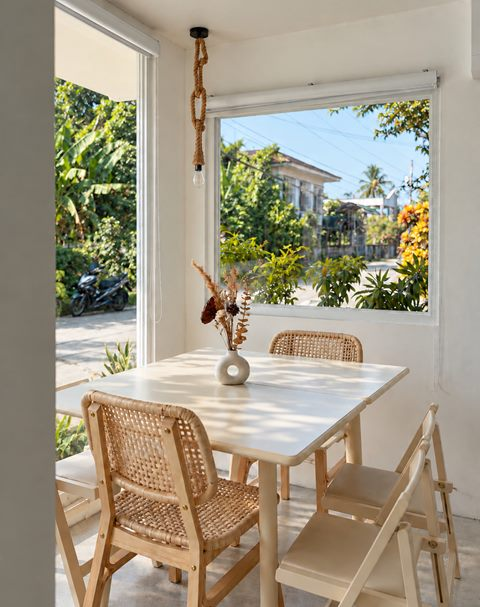
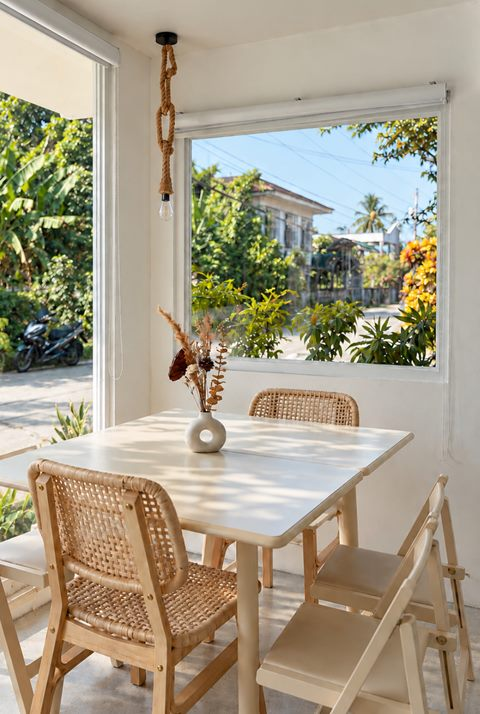
Show names only in Zayn Favorites; crop wall from window-table photo
- Remove prices from the Zayn Favorites cards (full menu keeps them)
- Crop the plain wall off the left of the window-table photo, used in
  the cafe gallery and the social preview; re-render the preview and
  bump its cache version to v=3

diff --git a/index.html b/index.html
@@ -12,7 +12,7 @@
 <!-- ===== Social / link preview =====
      Public URL is currently the GitHub Pages address. If a custom domain is connected,
      replace https://lendezstudio.github.io/Zayn-Coffee-PH/ in canonical, og:url, og:image and twitter:image.
-     ?v=2 on the image makes Facebook/Messenger fetch the new preview instead of a cached one.
+     ?v=3 on the image makes Facebook/Messenger fetch the new preview instead of a cached one.
      Image source: tools/og-template.html (render with tools/make-og-image.ps1). -->
 <link rel="canonical" href="https://lendezstudio.github.io/Zayn-Coffee-PH/">
 <meta property="og:url" content="https://lendezstudio.github.io/Zayn-Coffee-PH/">
@@ -21,8 +21,8 @@
 <meta property="og:locale" content="en_PH">
 <meta property="og:title" content="Zayn Coffee PH | Café in Hilongos, Leyte">
 <meta property="og:description" content="Bringing a city-inspired coffee experience to Hilongos, Leyte, with quality drinks, a calm atmosphere, and a space to work or unwind.">
-<meta property="og:image" content="https://lendezstudio.github.io/Zayn-Coffee-PH/assets/img/og/zayn-coffee-og.jpg?v=2">
-<meta property="og:image:secure_url" content="https://lendezstudio.github.io/Zayn-Coffee-PH/assets/img/og/zayn-coffee-og.jpg?v=2">
+<meta property="og:image" content="https://lendezstudio.github.io/Zayn-Coffee-PH/assets/img/og/zayn-coffee-og.jpg?v=3">
+<meta property="og:image:secure_url" content="https://lendezstudio.github.io/Zayn-Coffee-PH/assets/img/og/zayn-coffee-og.jpg?v=3">
 <meta property="og:image:type" content="image/jpeg">
 <meta property="og:image:width" content="1200">
 <meta property="og:image:height" content="630">
@@ -30,7 +30,7 @@
 <meta name="twitter:card" content="summary_large_image">
 <meta name="twitter:title" content="Zayn Coffee PH | Café in Hilongos, Leyte">
 <meta name="twitter:description" content="Bringing a city-inspired coffee experience to Hilongos, Leyte, with quality drinks, a calm atmosphere, and a space to work or unwind.">
-<meta name="twitter:image" content="https://lendezstudio.github.io/Zayn-Coffee-PH/assets/img/og/zayn-coffee-og.jpg?v=2">
+<meta name="twitter:image" content="https://lendezstudio.github.io/Zayn-Coffee-PH/assets/img/og/zayn-coffee-og.jpg?v=3">
 <meta name="twitter:image:alt" content="A sunny window table with rattan chairs and an iced coffee in a Zayn Coffee cup at Zayn Coffee PH in Hilongos, Leyte">
 
 <!-- ===== Favicons (from the official Zayn Coffee logo; generated by tools/optimize-images.ps1) ===== -->
@@ -319,11 +319,11 @@
         </li>
         <li class="fav reveal">
           <img src="assets/img/menu/spanish-latte-iced-480.jpg" srcset="assets/img/menu/spanish-latte-iced-480.jpg 480w, assets/img/menu/spanish-latte-iced-960.jpg 960w" sizes="(min-width: 960px) 19vw, 60vw" width="480" height="640" loading="lazy" decoding="async" alt="Iced Spanish Latte in a Zayn Coffee cup on a steel counter">
-          <p class="fav-name">Spanish Latte</p><p class="fav-price">&#8369;135 / 155</p>
+          <p class="fav-name">Spanish Latte</p>
         </li>
         <li class="fav reveal">
           <img src="assets/img/menu/cafe-latte-iced-480.jpg" srcset="assets/img/menu/cafe-latte-iced-480.jpg 480w, assets/img/menu/cafe-latte-iced-960.jpg 960w" sizes="(min-width: 960px) 19vw, 60vw" width="480" height="569" loading="lazy" decoding="async" alt="Iced Cafe Latte in a ZAYN COFFEE cup on a white counter">
-          <p class="fav-name">Cafe Latte</p><p class="fav-price">&#8369;130 / 150</p>
+          <p class="fav-name">Cafe Latte</p>
         </li>
         <!-- PENDING CLIENT CONTENT: Cinnamon Roll price (not on the confirmed menu); left blank on request -->
         <li class="fav reveal">
@@ -332,7 +332,7 @@
         </li>
         <li class="fav reveal">
           <img src="assets/img/menu/matcha-cookies-480.jpg" srcset="assets/img/menu/matcha-cookies-480.jpg 480w, assets/img/menu/matcha-cookies-960.jpg 960w" sizes="(min-width: 960px) 19vw, 60vw" width="480" height="652" loading="lazy" decoding="async" alt="Matcha cookies with white chocolate at Zayn Coffee">
-          <p class="fav-name">Matcha Cookies</p><p class="fav-price">&#8369;60</p>
+          <p class="fav-name">Matcha Cookies</p>
         </li>
       </ul>
 
@@ -540,7 +540,7 @@
       <!-- Curated cafe gallery (client photos). Staggered editorial grid on desktop,
            composed two-column layout on tablet/phone. Layout lives in css/site.css (.gallery). -->
       <div class="gallery">
-        <figure class="g g-anchor reveal"><img src="assets/img/gallery/window-table-rattan-960.jpg" srcset="assets/img/gallery/window-table-rattan-480.jpg 480w, assets/img/gallery/window-table-rattan-960.jpg 960w" sizes="(min-width: 900px) 40vw, 92vw" width="960" height="1213" loading="lazy" decoding="async" alt="A sunny window table with rattan chairs and a garden view inside Zayn Coffee"></figure>
+        <figure class="g g-anchor reveal"><img src="assets/img/gallery/window-table-rattan-960.jpg" srcset="assets/img/gallery/window-table-rattan-480.jpg 480w, assets/img/gallery/window-table-rattan-960.jpg 960w" sizes="(min-width: 900px) 40vw, 92vw" width="960" height="1427" loading="lazy" decoding="async" alt="A sunny window table with rattan chairs and a garden view inside Zayn Coffee"></figure>
         <figure class="g g-arch reveal"><img src="assets/img/gallery/window-bar-cacti-480.jpg" srcset="assets/img/gallery/window-bar-cacti-480.jpg 480w, assets/img/gallery/window-bar-cacti-960.jpg 960w" sizes="(min-width: 900px) 30vw, 46vw" width="480" height="633" loading="lazy" decoding="async" alt="Window bar seating with an arched mirror and cacti outside at Zayn Coffee"></figure>
         <figure class="g g-sign reveal"><img src="assets/img/gallery/need-more-coffee-wall-480.jpg" srcset="assets/img/gallery/need-more-coffee-wall-480.jpg 480w, assets/img/gallery/need-more-coffee-wall-960.jpg 960w" sizes="(min-width: 900px) 22vw, 46vw" width="480" height="671" loading="lazy" decoding="async" alt="An “I need more coffee” wall graphic in the hallway at Zayn Coffee"></figure>
         <figure class="g g-cup reveal"><img src="assets/img/gallery/latte-art-cup-480.jpg" srcset="assets/img/gallery/latte-art-cup-480.jpg 480w, assets/img/gallery/latte-art-cup-900.jpg 900w" sizes="(min-width: 900px) 22vw, 46vw" width="480" height="467" loading="lazy" decoding="async" alt="A latte with heart latte art at Zayn Coffee"></figure>

diff --git a/css/site.css b/css/site.css
@@ -488,7 +488,6 @@ p:last-child{ margin-bottom: 0; }
 .fav--lead img{ flex: 1; aspect-ratio: auto; min-height: 0; }
 .fav-name{ font-family: var(--font-display); font-size: 1.15rem; color: var(--ink); margin: 0.8rem 0 0.1rem; line-height: 1.25; }
 .fav--lead .fav-name{ font-size: clamp(1.4rem, 2.2vw, 1.8rem); }
-.fav-price{ font-weight: 600; font-size: 0.93rem; color: var(--terracotta-text); margin: 0; }
 
 @media (max-width: 900px){
   .favorites{ grid-template-columns: 1fr 1fr; }
